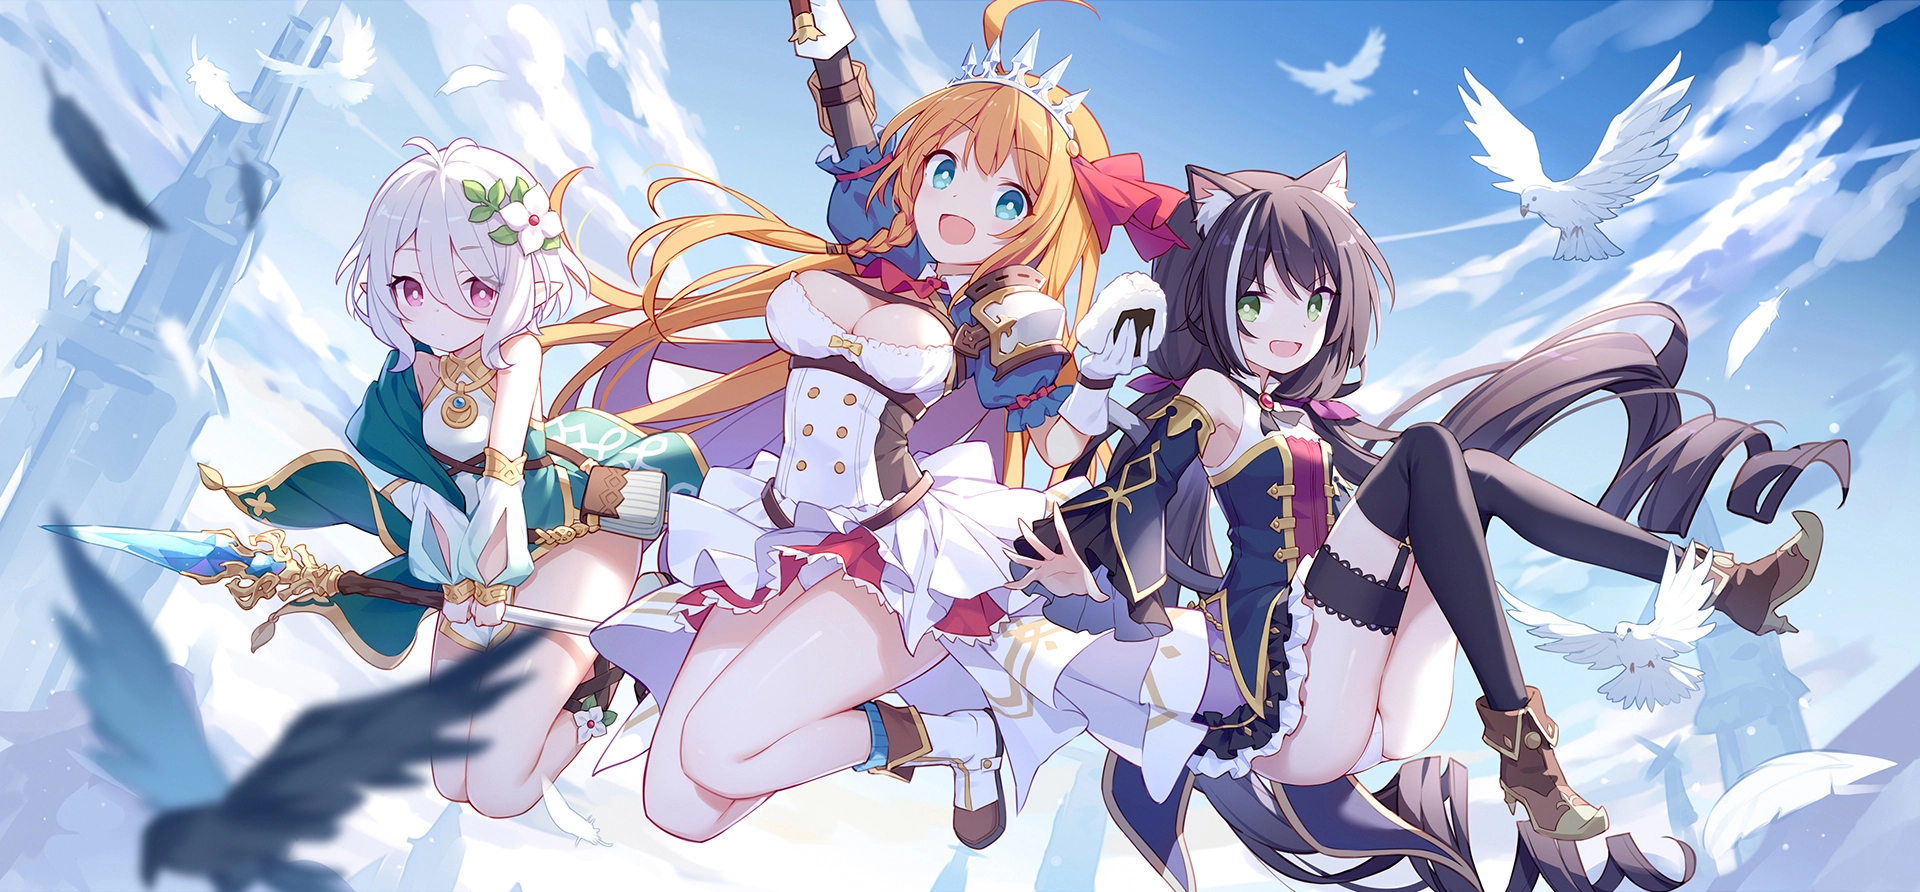
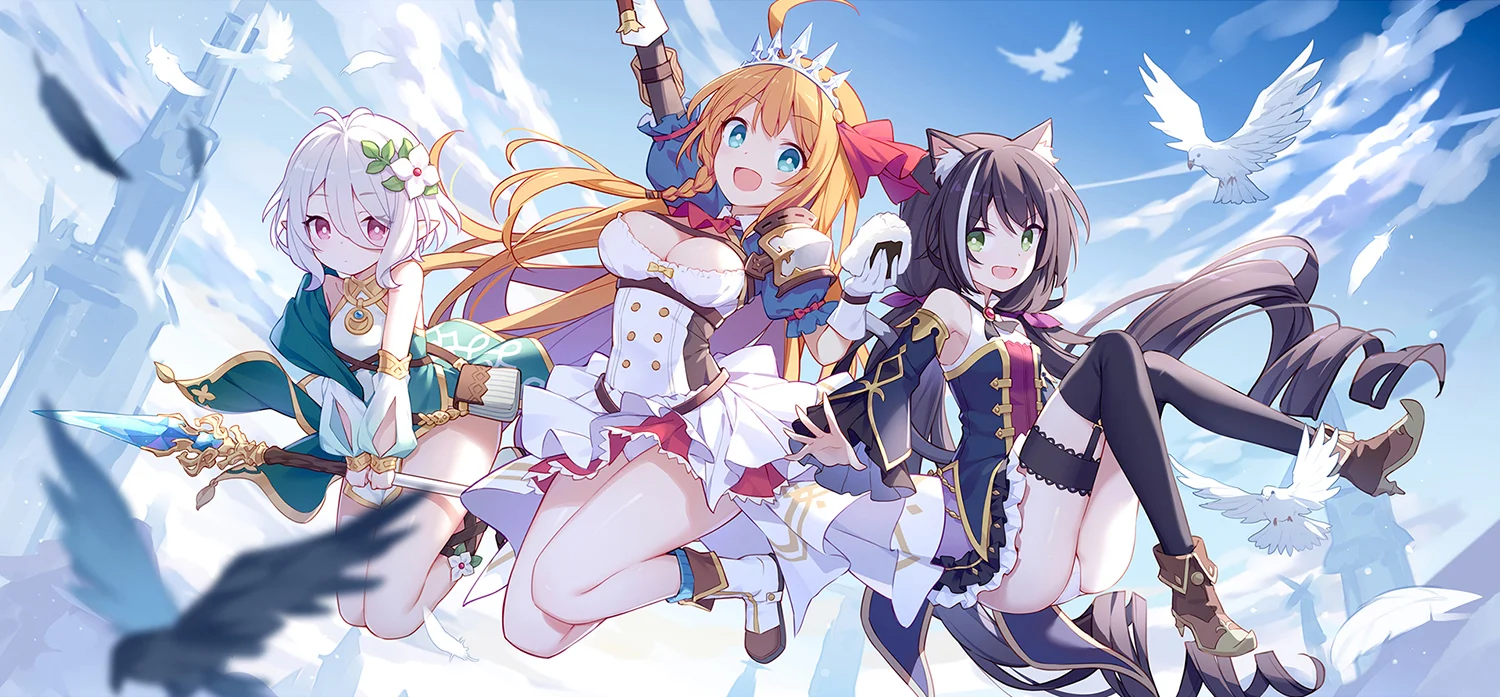
change bg name and keywords

diff --git a/public/index.html b/public/index.html
@@ -11,7 +11,7 @@
     />
     <meta
       name="keywords"
-      content="Kittidet, Cheavachirakul, TheBossTH, Thel3ossTH, TBTH, Kittidet Cheavachirakul"
+      content="Kittidet, Cheavachirakul, TheBossTH, Thel3ossTH, TBTH, kittidet cheavachirakul, Kittidet Cheavachirakul"
     />
     <meta name="author" content="Kittidet Cheavachirakul" />
 

diff --git a/src/App.js b/src/App.js
@@ -1,7 +1,7 @@
 import React from "react";
 import "./App.css";
 import tbth from "./images/tbth.png";
-import bg from "./images/bg1.webp";
+import bg from "./images/bg.webp";
 import Button from "./components/Button";
 
 function App() {
